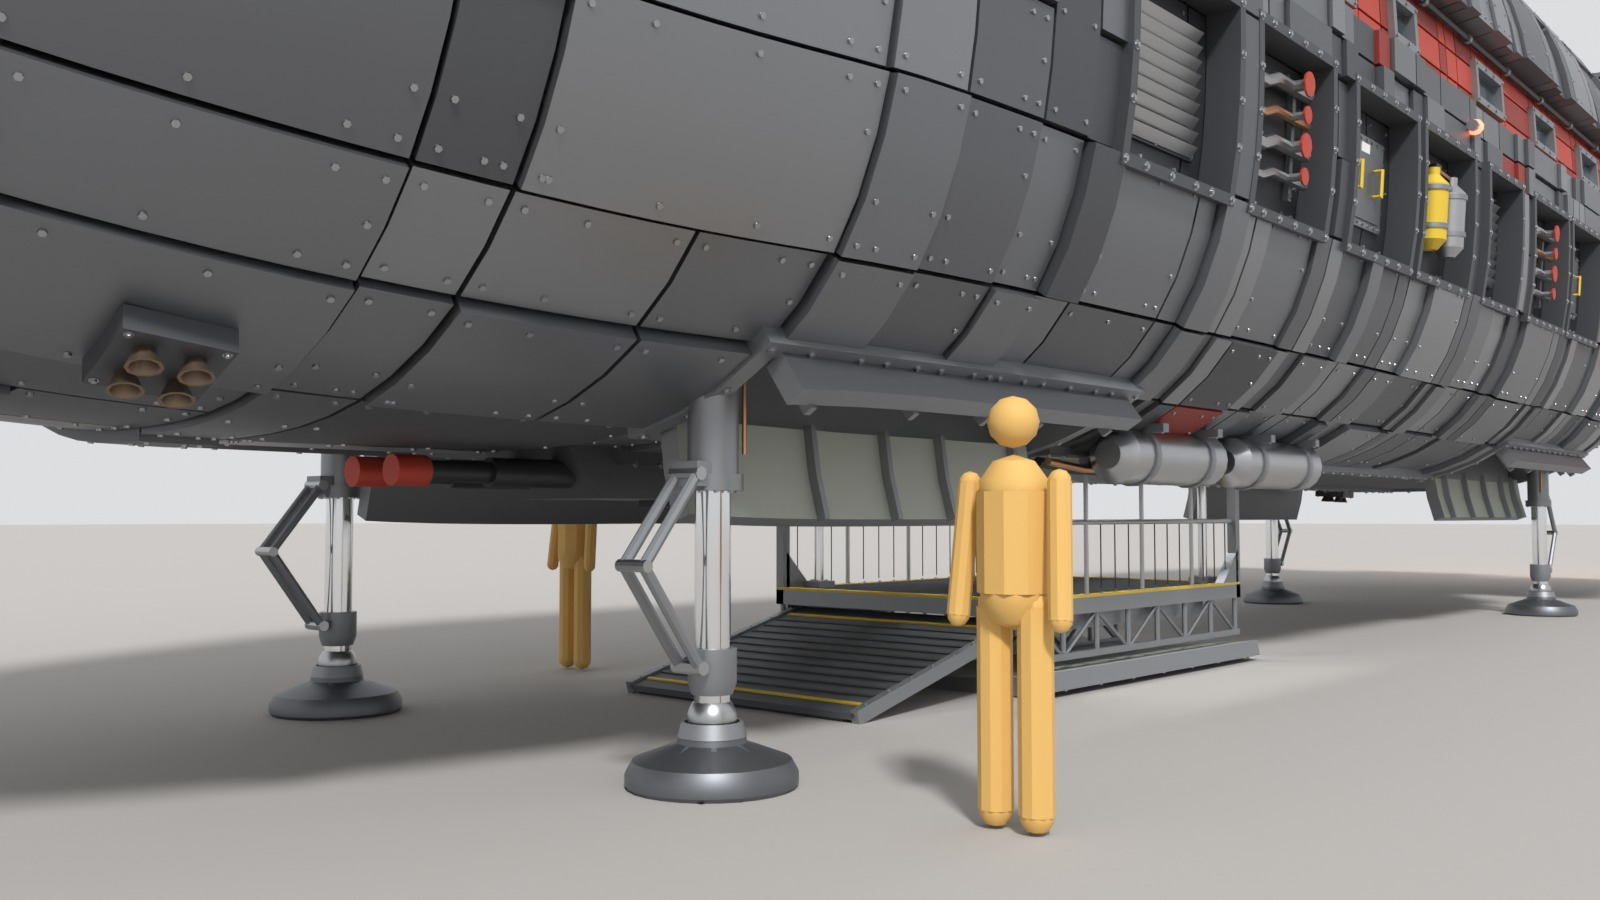
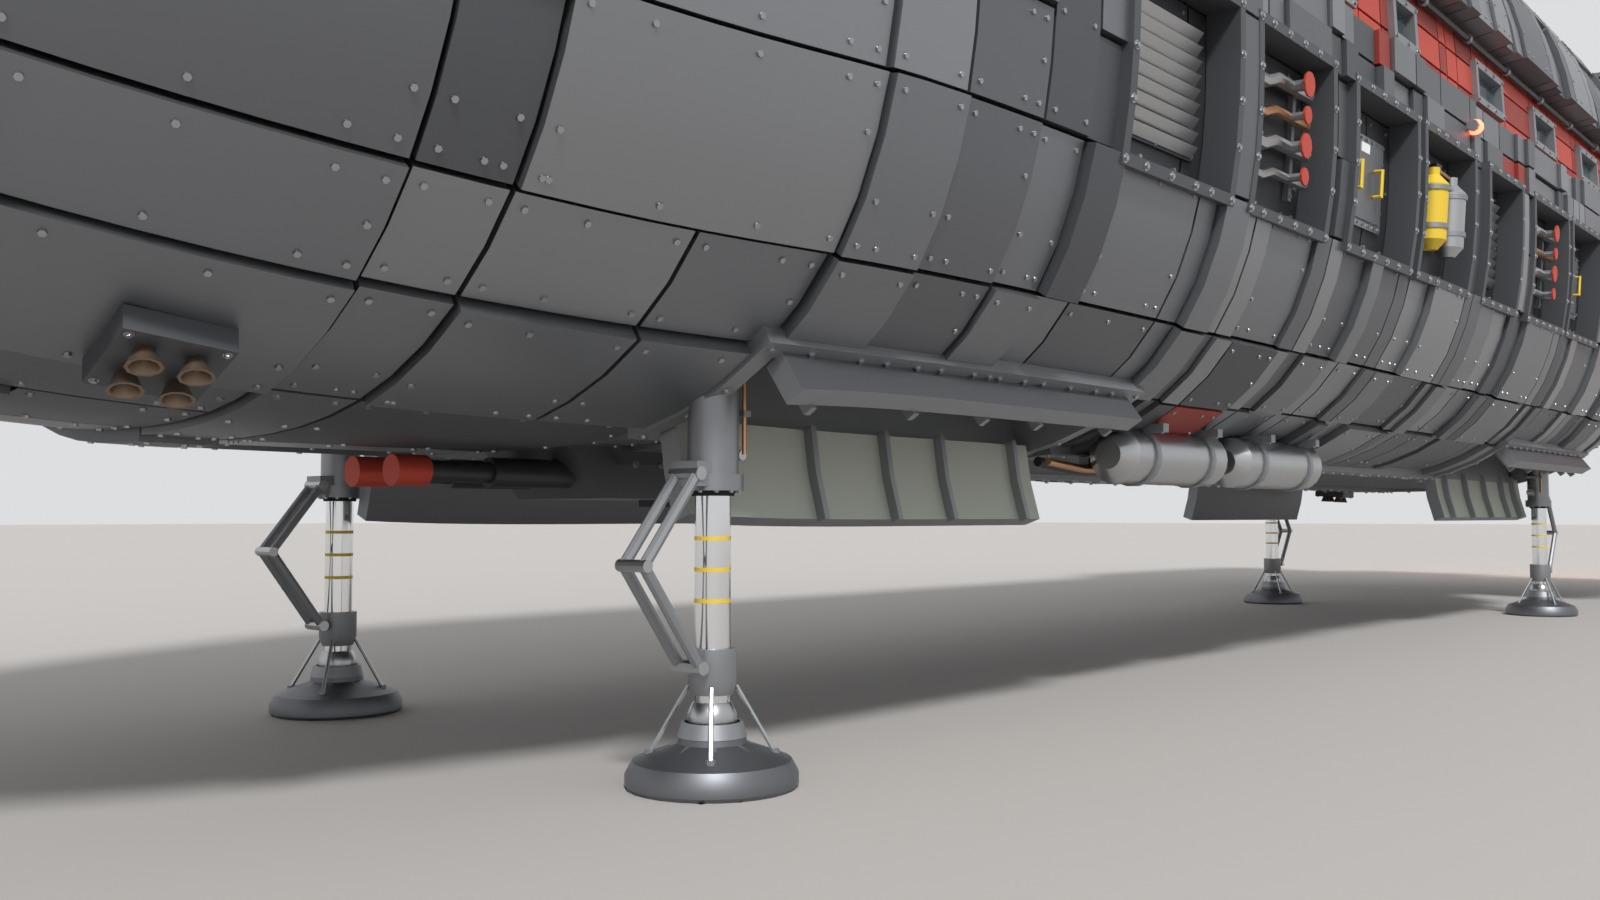
Wayfarer: landing gear detail pass
Legs gain an uplock roller, landing light, conduit, clamps, wiper ring,
stroke marks and pad centring springs. Each well gets an uplock jaw, an
accumulator, a valve block and hydraulic lines.

Claude-Session: https://claude.ai/code/session_01UuyFwUzXmHQvLrtw5ioQUe

diff --git a/assets/wayfarer/model/modules/landing_gear.py b/assets/wayfarer/model/modules/landing_gear.py
@@ -47,6 +47,36 @@ def build_wells(parent):
             ya = yc - sd * 0.24
             mb.box(s + fold * 1.9 - 0.08, s + fold * 1.9 + 0.08, ya - 0.07, ya + 0.07, ZT + 0.20, WELL_TOP, 'structure_steel')
             mb.box(w0 + 0.3, w1 - 0.3, sd * (WELL_Y + 0.03), sd * (WELL_Y + 0.07), WELL_TOP - 0.10, WELL_TOP - 0.05, 'light_panel')
+            # hydraulics on the well ceiling: accumulator, valve block, lines to the actuator anchor and along the wall
+            zc = WELL_TOP; ya2 = sd * 2.05
+            mb.cyl((s + fold * 0.45, ya2, zc - 0.10), (s + fold * 1.15, ya2, zc - 0.10), 0.085, 'machinery_bare', n=16)
+            mb.sphere((s + fold * 0.45, ya2, zc - 0.10), 0.085, 'machinery_bare', n=14); mb.sphere((s + fold * 1.15, ya2, zc - 0.10), 0.085, 'machinery_bare', n=14)
+            mb.cyl((s + fold * 0.76, ya2, zc - 0.10), (s + fold * 0.84, ya2, zc - 0.10), 0.088, 'hazard_yellow', n=16)
+            for f in (0.58, 1.02):
+                mb.box(s + fold * f - 0.02, s + fold * f + 0.02, ya2 - 0.095, ya2 + 0.095, zc - 0.195, zc, 'structure_steel')
+                bolts.bolt((s + fold * f, ya2 - 0.08, zc - 0.195), (0, 0, -1), r=0.009, h=0.006); bolts.bolt((s + fold * f, ya2 + 0.08, zc - 0.195), (0, 0, -1), r=0.009, h=0.006)
+            mb.box(s + fold * 1.30, s + fold * 1.55, ya2 - 0.10, ya2 + 0.10, zc - 0.13, zc, 'machinery_dark')                   # valve block
+            for q in range(3):
+                sv = s + fold * (1.35 + 0.075 * q)
+                mb.cyl((sv, ya2 - 0.05, zc - 0.13), (sv, ya2 - 0.05, zc - 0.175), 0.022, 'machinery_bare', n=8)                  # solenoids
+                mb.cyl((sv, ya2 + 0.05, zc - 0.13), (sv, ya2 + 0.05, zc - 0.16), 0.014, 'copper_pipe', n=6)
+            mb.pipe([(s + fold * 1.235, ya2, zc - 0.10), (s + fold * 1.30, ya2, zc - 0.07)], 0.016, 'copper_pipe', n=6)
+            mb.pipe([(s + fold * 1.55, ya2 - sd * 0.05, zc - 0.05), (s + fold * 1.75, ya2 - sd * 0.05, zc - 0.05), (s + fold * 1.9, ya + sd * 0.09, zc - 0.06), (s + fold * 1.9, ya + sd * 0.09, ZT + 0.22)], 0.014, 'copper_pipe', n=6)
+            for q, (zz, mm) in enumerate(((zc - 0.20, 'copper_pipe'), (zc - 0.25, 'machinery_bare'), (zc - 0.30, 'cable_black'))):
+                yw = sd * (WELL_Y + 0.035)
+                mb.pipe([(w0 + 0.12, yw, zz), (w1 - 0.12, yw, zz)], 0.013, mm, n=6)
+            for sc in np.arange(w0 + 0.35, w1 - 0.2, 0.55):
+                mb.box(sc - 0.02, sc + 0.02, sd * WELL_Y, sd * (WELL_Y + 0.055), zc - 0.325, zc - 0.175, 'structure_steel')
+            mb.pipe([(s + fold * 1.42, ya2 - sd * 0.10, zc - 0.03), (s + fold * 1.42, sd * (WELL_Y + 0.035), zc - 0.03), (s + fold * 1.42, sd * (WELL_Y + 0.035), zc - 0.20)], 0.013, 'copper_pipe', n=6)
+            # uplock: a jaw on the ceiling that catches the roller on the leg when it is stowed
+            su = s + fold * 1.40; yu = yc + 0.04
+            for dy in (-0.062, 0.062):
+                mb.box(su - 0.07, su + 0.07, yu + dy - 0.012, yu + dy + 0.012, ZT + 0.17, zc, 'structure_steel')
+            mb.box(su - 0.07, su + 0.07, yu - 0.075, yu + 0.075, zc - 0.07, zc, 'structure_steel')
+            mb.cyl((su - fold * 0.05, yu - 0.075, ZT + 0.26), (su - fold * 0.05, yu + 0.075, ZT + 0.26), 0.016, 'machinery_bare', n=8)
+            mb.box(su + fold * 0.07, su + fold * 0.20, yu - 0.03, yu + 0.03, zc - 0.10, zc - 0.03, 'machinery_dark')              # release ram
+            bolts.bolt_circle((su, yu, zc - 0.07), (0, 0, -1), 0.055, 4, r=0.009, h=0.006)
+            mb.box(s + fold * 0.5, s + fold * 0.9, sd * (WELL_Y + 0.001), sd * (WELL_Y + 0.004), zc - 0.60, zc - 0.45, 'placard_white')   # servicing placard
     finish('gear_wells', mb, parent, group='landing_gear'); finish('gear_well_bolts', bolts, parent, sharp=60, group='fasteners')
 
 def leg_parts(s, y, fold):
@@ -72,6 +102,20 @@ def leg_parts(s, y, fold):
     leg.cyl((A[0], y - 0.10, A[2]), (A[0], y + 0.10, A[2]), 0.034, 'machinery_bare', n=10)
     leg.cyl((K[0], y - 0.10, K[2]), (K[0], y + 0.10, K[2]), 0.030, 'machinery_bare', n=10)
     leg.box(s + k * 0.10, s + k * 0.19, y - 0.09, y + 0.09, ZT - 1.56, ZT - 1.44, st)
+    # uplock roller on the side that faces up when the leg is stowed
+    leg.box(s + fold * 0.12, s + fold * 0.21, y + 0.012, y + 0.068, ZT - 1.445, ZT - 1.355, st)
+    leg.cyl((s + fold * 0.20, y - 0.005, ZT - 1.40), (s + fold * 0.20, y + 0.085, ZT - 1.40), 0.026, 'machinery_bare', n=10)
+    # landing light on the forward face, electrical conduit, line clamps, wiper ring, servicing placard
+    leg.cyl((s - 0.12, y, ZT - 0.46), (s - 0.20, y, ZT - 0.46), 0.062, dk, n=14)
+    leg.cyl((s - 0.20, y, ZT - 0.46), (s - 0.206, y, ZT - 0.46), 0.052, 'light_panel', n=14)
+    leg.pipe([(s + fold * 0.13, y + 0.07, ZT - 0.20), (s + fold * 0.142, y + 0.07, ZT - 0.60), (s + fold * 0.142, y + 0.07, ZT - 1.30)], 0.009, 'cable_black', n=6)
+    for zz in (ZT - 0.40, ZT - 0.80, ZT - 1.20):
+        leg.box(s + fold * 0.118, s + fold * 0.165, y - 0.095, y + 0.095, zz - 0.015, zz + 0.015, st) if fold > 0 else leg.box(s - 0.165, s - 0.118, y - 0.095, y + 0.095, zz - 0.015, zz + 0.015, st)
+    leg.lathe((s, y, ZT - 1.58), (0, 0, -1), [(0, 0.105), (0.025, 0.105), (0.025, 0.09)], 'rubber_black', n=24, cap0=False, cap1=False)
+    sdo = 1 if y > 0 else -1
+    leg.box(s - 0.05, s + 0.05, y + sdo * 0.122, y + sdo * 0.128, ZT - 1.08, ZT - 0.94, 'placard_white')
+    for a_ in range(4):                                                                            # grease points on the head
+        leg.bolt((s + (-0.09 + 0.06 * a_), y, ZT + 0.11), (0, 0, 1), r=0.008, h=0.01, washer=False)
     # actuator lug on the inboard side
     sd = 1 if y > 0 else -1
     leg.box(s + fold * 0.06, s + fold * 0.22, y - sd * 0.30, y - sd * 0.12, ZT - 0.78, ZT - 0.62, st)
@@ -80,6 +124,8 @@ def leg_parts(s, y, fold):
     pis.cyl((B[0], y - 0.10, B[2]), (B[0], y + 0.10, B[2]), 0.034, 'machinery_bare', n=10)
     pis.box(s - 0.11, s + 0.11, y - 0.10, y + 0.10, ZT - 2.50, ZT - 2.36, st) if False else pis.lathe((s, y, ZT - 2.34), (0, 0, -1), [(0, 0.088), (0, 0.12), (0.16, 0.12), (0.22, 0.10)], st, n=20, cap0=False, cap1=False)
     pis.sphere((s, y, ZT - 2.68), 0.125, 'machinery_bare', n=14)                                   # ball joint
+    for zz in (ZT - 1.80, ZT - 1.95, ZT - 2.10):                                                   # stroke marks
+        pis.lathe((s, y, zz), (0, 0, -1), [(0, 0.0892), (0.02, 0.0892)], 'hazard_yellow', n=24, cap0=False, cap1=False)
     # pad
     z0 = ZT - 2.74; R_ = G['pad_r']
     pad.lathe((s, y, z0), (0, 0, -1), [(0, 0.16), (0.05, 0.17), (0.13, R_ * 0.92), (0.19, R_), (0.24, R_), (0.26, R_ * 0.96)], 'armour_gunmetal_b', n=28, cap0=True, cap1=True)
@@ -88,6 +134,11 @@ def leg_parts(s, y, fold):
         t = 2 * math.pi * a / 8; c, sn = math.cos(t), math.sin(t)
         pad.prism([(s + c * 0.17, y + sn * 0.17, z0 - 0.05), (s + c * R_ * 0.9, y + sn * R_ * 0.9, z0 - 0.19), (s + c * R_ * 0.9, y + sn * R_ * 0.9, z0 - 0.13)], (-sn * 0.025, c * 0.025, 0), st)   # gusset
         pad.bolt((s + c * R_ * 0.82, y + sn * R_ * 0.82, z0 - 0.165), (c * 0.25, sn * 0.25, 1), r=0.013, h=0.009)
+    for a in range(4):                                                                             # centring springs from the pad to the piston collar
+        tq = math.pi / 4 + a * math.pi / 2; c, sn = math.cos(tq), math.sin(tq)
+        pad.cyl((s + c * 0.30, y + sn * 0.30, z0 - 0.10), (s + c * 0.115, y + sn * 0.115, z0 + 0.22), 0.012, 'machinery_bare', n=6)
+        pad.cyl((s + c * 0.30, y + sn * 0.30, z0 - 0.115), (s + c * 0.30, y + sn * 0.30, z0 - 0.085), 0.024, st, n=8)
+    pad.tube((s + R_ * 0.99, y - 0.02, z0 - 0.215), (s + R_ * 0.99, y + 0.02, z0 - 0.215), 0.04, 0.022, 'hazard_yellow', n=10)   # tie-down ring
     for a in range(5):                                                                             # tread bars
         x = -R_ * 0.7 + a * R_ * 0.35; hw = math.sqrt(max(R_ * R_ * 0.9 - x * x, 0.0))
         pad.box(s + x - 0.03, s + x + 0.03, y - hw, y + hw, z0 - 0.275, z0 - 0.26, 'rubber_black')

diff --git a/assets/wayfarer/model/tools/shots.py b/assets/wayfarer/model/tools/shots.py
@@ -30,6 +30,8 @@ PERSP = {
     'engine_aft': dict(eye=(33.5, -4.5, 1.6), target=(28.6, -1.5, 0.2), lens=30),
     'engine_gap': dict(eye=(27.6, -7.2, 1.9), target=(26.0, -2.6, 0.5), lens=30),
     'intake': dict(eye=(17.5, -9.5, 1.2), target=(25.0, -2.6, 0.2), lens=45),
+    'gear_well': dict(eye=(8.2, -1.95, -3.3), target=(6.7, -1.85, -1.35), lens=13),
+    'gear_leg': dict(eye=(4.2, -3.6, -3.3), target=(6.0, -1.8, -3.2), lens=28),
     'gear': dict(eye=(1.5, -6.5, -3.4), target=(7.5, -1.0, -3.0), lens=30),
     'lander_bay': dict(eye=(13.9, -1.62, -0.55), target=(17.6, 0.2, -1.6), lens=14),
     'under_bay': dict(eye=(24.5, -7.5, -3.9), target=(17.2, 0.0, -3.0), lens=28),
